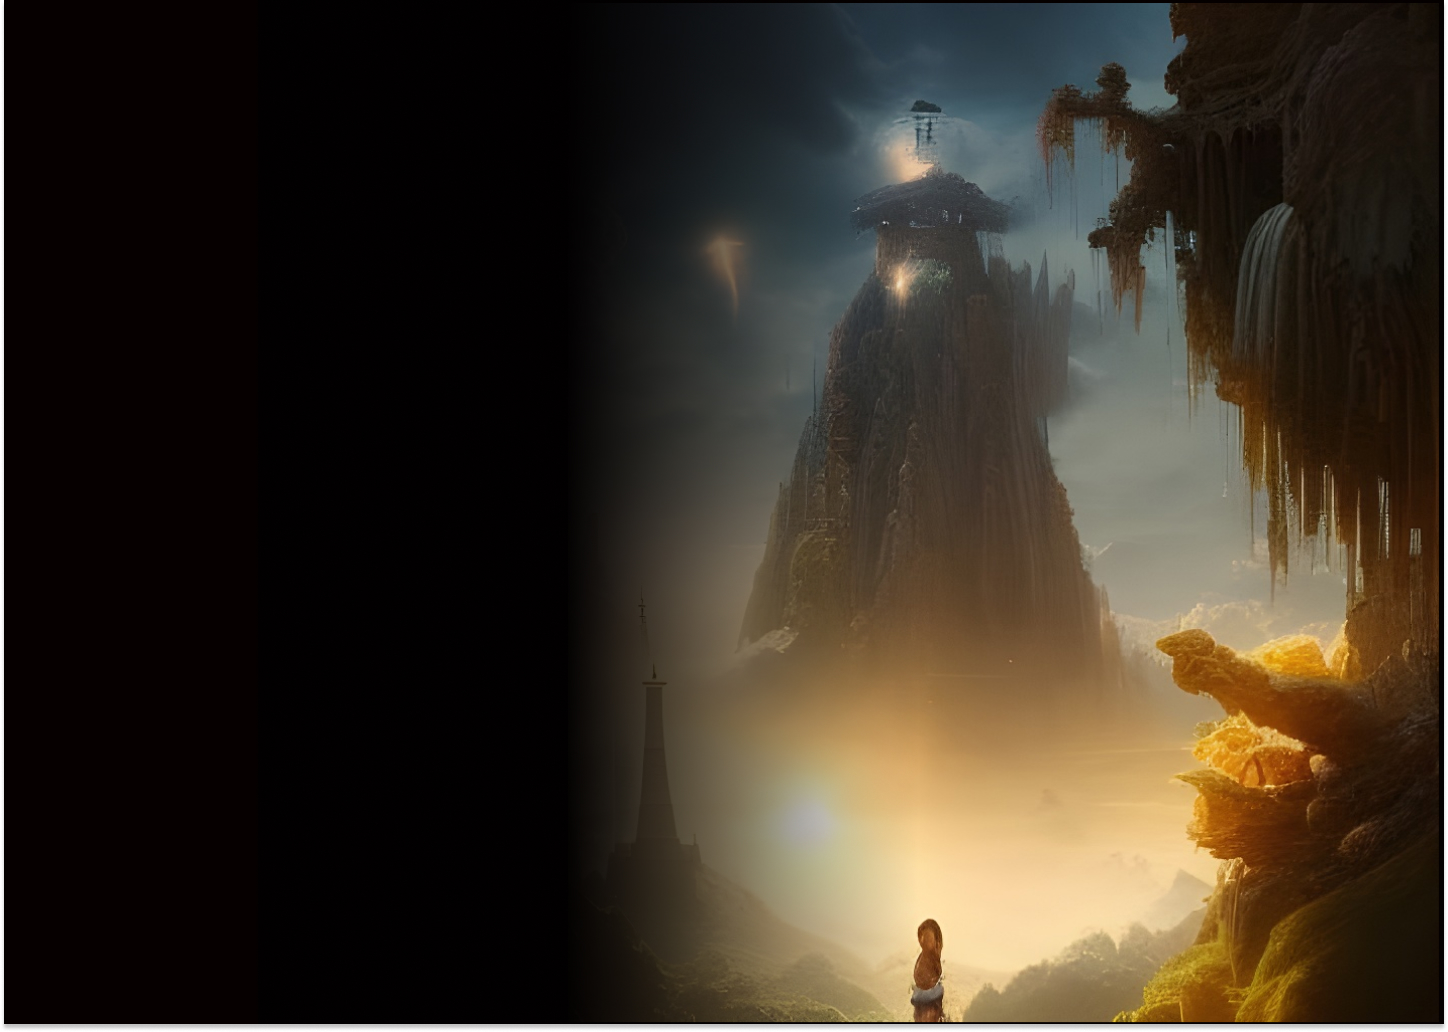
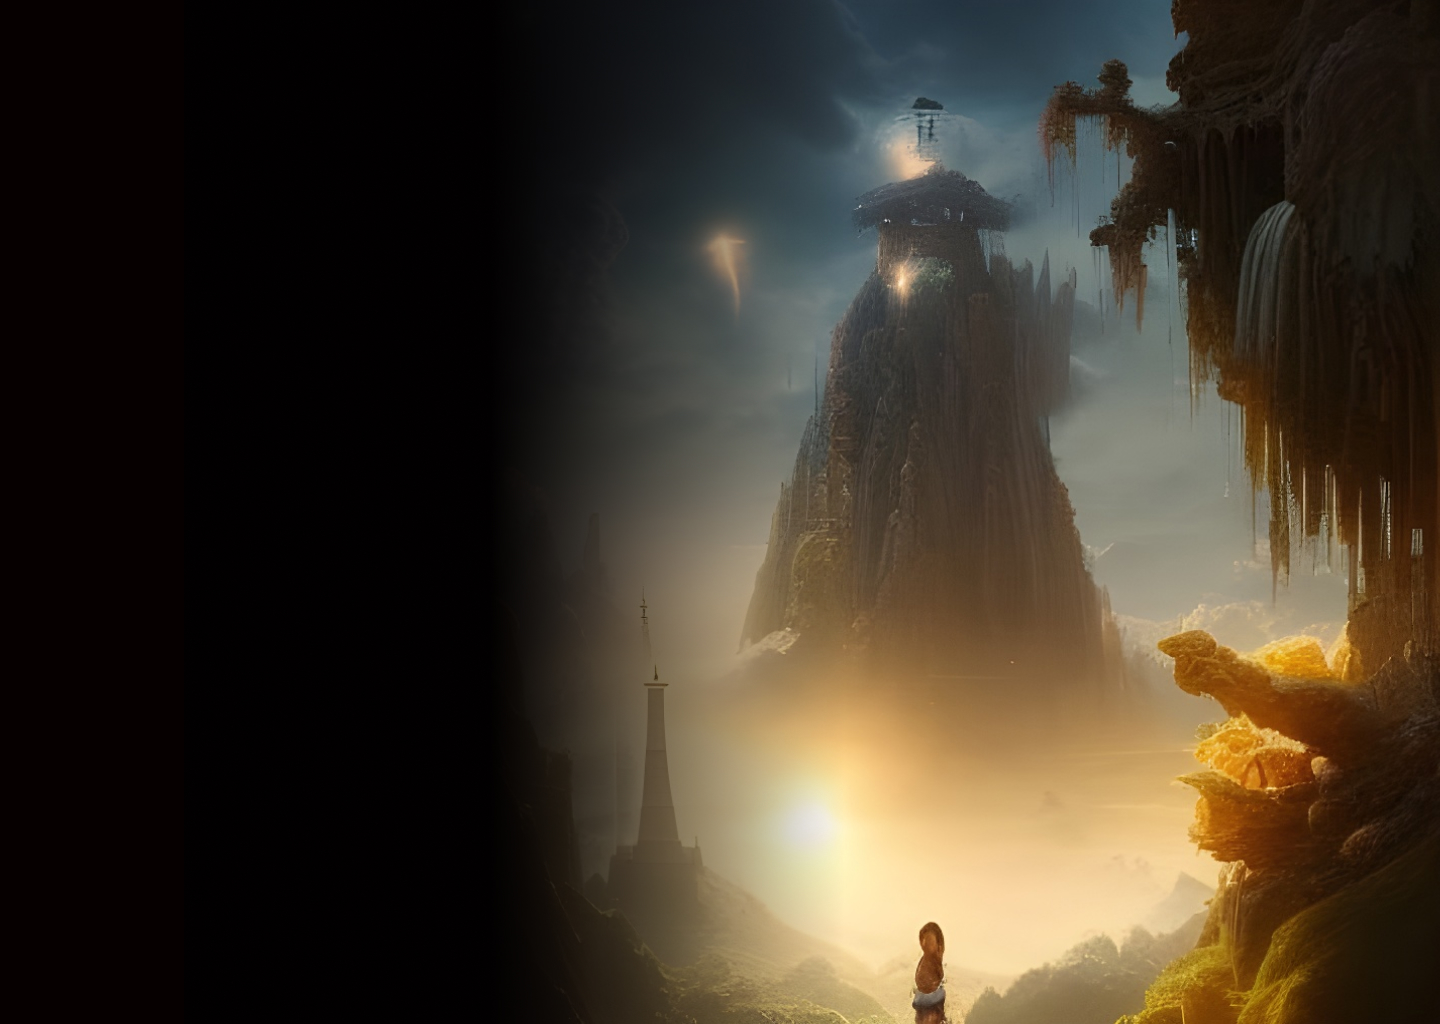
changed last img due to white frame and changed background img to cover since it wasn't covering

diff --git a/code/src/Components/GameImage.js b/code/src/Components/GameImage.js
@@ -46,7 +46,7 @@ display: grid;
 background-image: url(${(props) => props.sImage});
 //background-image: url('/assets/images/image_3.jpg');
 min-height: 100vh;
-background-size: contain;
+background-size: cover;
 background-position: top;
 background-repeat: no-repeat;
 background-color: black;
